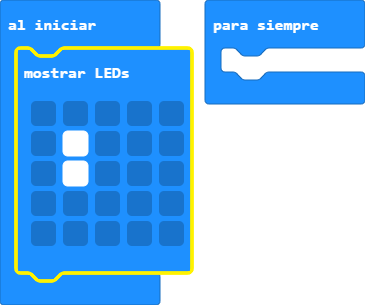
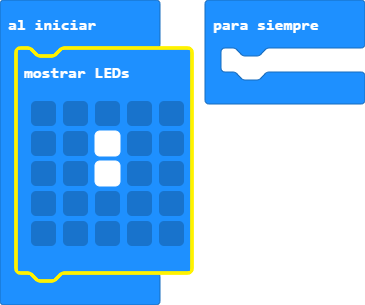
Actualizar main.blocks, main.ts

Changed region(s): [[0.1507, 0.4131, 0.3315, 0.6197]]

diff --git a/main.ts b/main.ts
@@ -1,7 +1,7 @@
 basic.showLeds(`
     . . . . .
-    . # . . .
-    . # . . .
+    . . # . .
+    . . # . .
     . . . . .
     . . . . .
     `)
